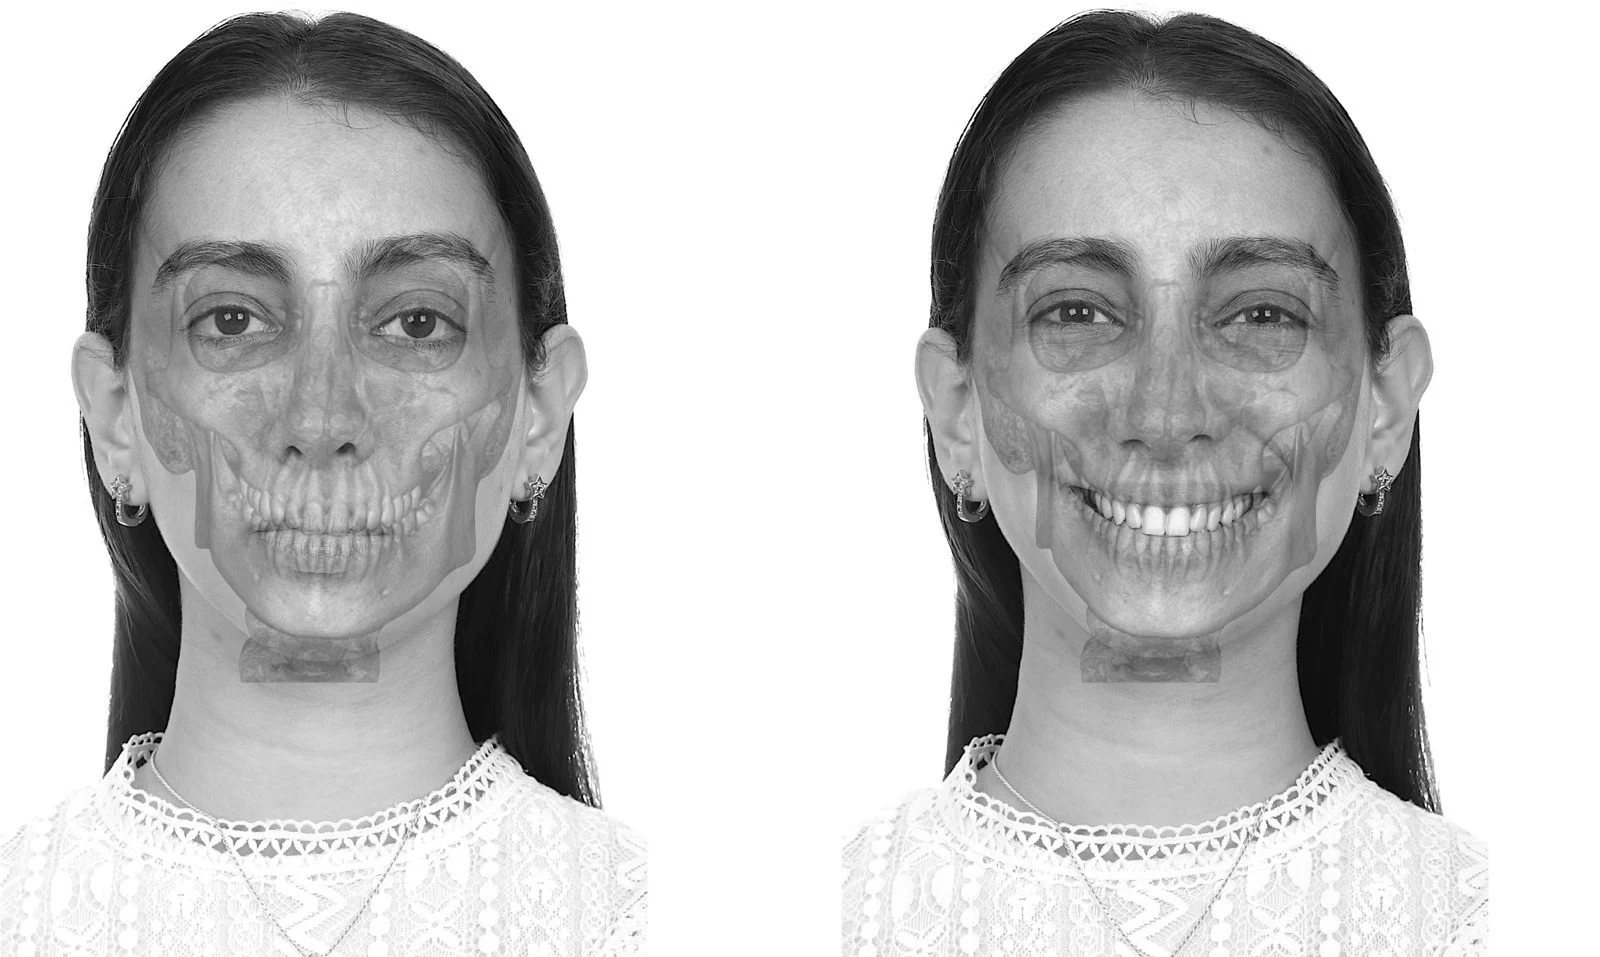
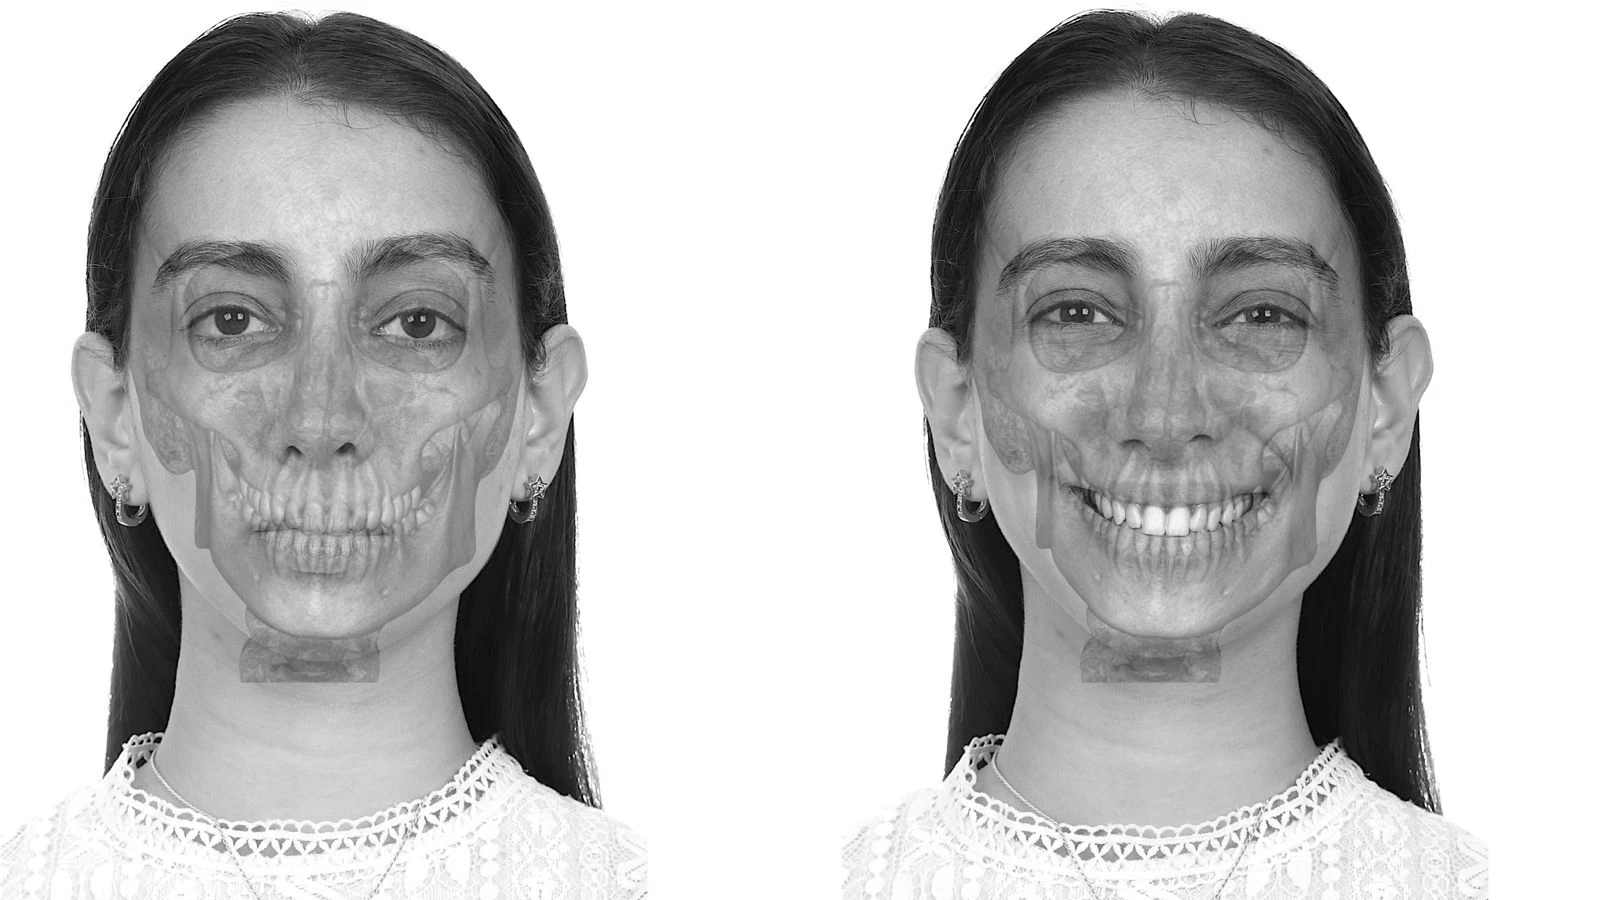
homologacao: build de eecfde6

diff --git a/dr-jonathas-claus/index.html b/dr-jonathas-claus/index.html
@@ -955,11 +955,11 @@ height="0" width="0" style="display:none;visibility:hidden"></iframe></noscript>
   <section class="wrap-content reveal" id="planejamento-virtual">
 
     <div class="split split--middle split--reverse">
-      <figure class="col-img slot slot--4x3">
-        <img class="img-token" src="/assets/img/planejamento-3d.webp?v=aalrsh"
-             data-token="/assets/img/planejamento-3d.webp?v=aalrsh"
+      <figure class="col-img slot slot--16x9">
+        <img class="img-token" src="/assets/img/planejamento-3d.webp?v=qe9tiu"
+             data-token="/assets/img/planejamento-3d.webp?v=qe9tiu"
              alt="Planejamento virtual em 3D de cirurgia ortognática a partir de tomografia"
-             width="1200" height="900" loading="lazy" />
+             width="1600" height="900" loading="lazy" style="aspect-ratio:16/9" />
       </figure>
       <div class="col-copy">
         <span class="eyebrow">Planejamento virtual</span>
